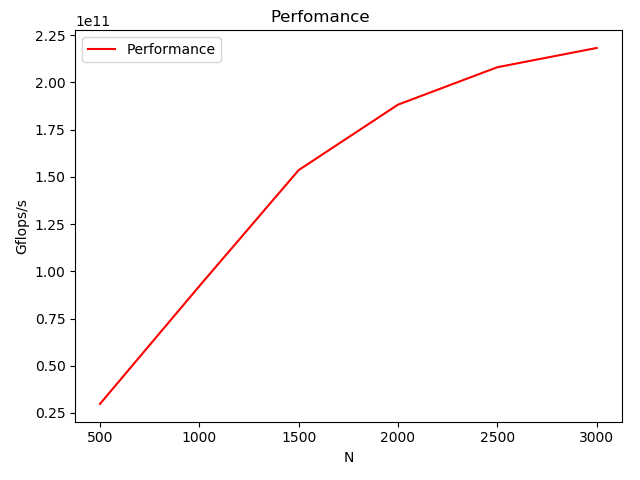
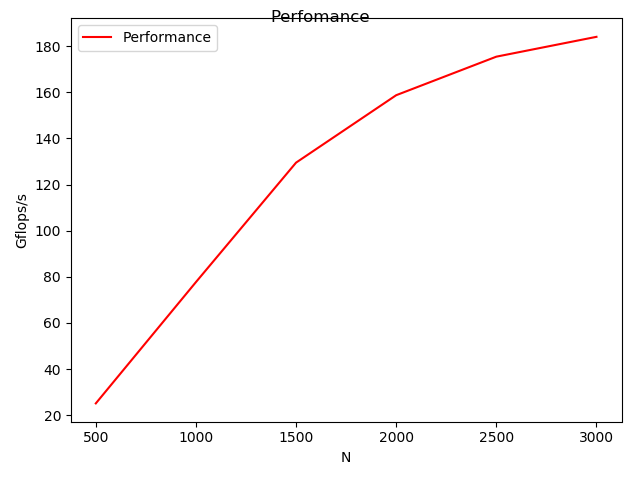
update comments

diff --git a/20190111/code/plot.py b/20190111/code/plot.py
@@ -1,25 +1,26 @@
+from matplotlib import pyplot as plt
 import matplotlib
 matplotlib.use("TkAgg")
-from matplotlib import pyplot as plt
 
 n, t, flot, t1, flot1 = [], [], [], [], []
+
 
 def get_cols(filename):
     """
     """
-    n, t, flot,t1, flot1 = [], [], [], [], []
+    n, t, flot, t1, flot1 = [], [], [], [], []
     with open(filename, "r") as f:
         for line in f:
             values = [float(s) for s in line.split()]
             n.append(values[0])
             t.append(values[1])
-            flot.append(values[2]/1.18564e+9)
+            flot.append(values[2])
             t1.append(values[3])
-            flot1.append(values[4]/1.18564e+9)
-    return n, t, flot, t1,flot1
+            flot1.append(values[4])
+    return n, t, flot, t1, flot1
 
 
-def plot_time(n, t,n1,t1,plt1, output):
+def plot_time(n, t, n1, t1, plt1, output):
     plt1.figure(1, clear=True)
     plt1.subplot()
     plt1.plot(n, t, '-r', label='computation + communication')
@@ -32,7 +33,7 @@ def plot_time(n, t,n1,t1,plt1, output):
     plt1.savefig(output)
 
 
-def plot_pperfomance(n,f, plt1,f1,n1, output):
+def plot_pperfomance(n, f, plt1, f1, n1, output):
     plt1.figure(2, clear=True)
     plt1.subplot()
     plt1.plot(n, f, '-r', label=' computation + communication')
@@ -45,6 +46,6 @@ def plot_pperfomance(n,f, plt1,f1,n1, output):
     plt1.savefig(output)
 
 
-n, t, f, t1,flot1 = get_cols('../data/time.dat')
-plot_time(n, t,n,t1, plt, '../img/time.png')
-plot_pperfomance(n, f,plt,flot1,n, '../img/perfomance.png')
+n, t, f, t1, flot1 = get_cols('../data/time.dat')
+plot_time(n, t, n, t1, plt, '../img/time.png')
+plot_pperfomance(n, f, plt, flot1, n, '../img/perfomance.png')

diff --git a/20190107/code/omp_refmatmul.c b/20190107/code/omp_refmatmul.c
@@ -4,6 +4,7 @@
 #include <omp.h>
 #endif
 
+// multiplication 
 void matrix_multiply(double *C, double *A, double *B, int N) {
   int i, j, k;
 #pragma omp for collapse(2) private(i,j,k)
@@ -16,6 +17,7 @@ void matrix_multiply(double *C, double *A, double *B, int N) {
 
 int main(int argc, char *argv[]) 
 {
+  // declare variables
   int i, j, numthreads;
   int N,num_size;
   double *A, *B, *C, t;
@@ -28,10 +30,12 @@ int main(int argc, char *argv[])
   N = atoi(argv[1]);
   num_size = N * N * sizeof(double);
 
+  // Allocate memory 
   A = (double *)malloc(num_size);
   B = (double *)malloc(num_size);
   C = (double *)malloc(num_size);
 
+  //initialize array
   for (i = 0; i < N; ++i)
     for (j = 0; j < N; ++j) {
       A[i + j*N] = 0.5;
@@ -39,7 +43,7 @@ int main(int argc, char *argv[])
       C[i +j * N] = 0.0;
     }
 
-  t =- omp_get_wtime();
+t =- omp_get_wtime();
 #pragma omp parallel
 {
   numthreads = omp_get_num_threads();
@@ -47,7 +51,8 @@ int main(int argc, char *argv[])
 }
   t += omp_get_wtime();
 
-  printf("%d %d %g %g \n", N, numthreads, t, 2.0 * N * N * N / t);
+//print time
+printf("%d %d %g %g \n", N, numthreads, t, 2.0 * N * N * N / t);
 
   return 0;
 }

diff --git a/20190109/code/plot.py b/20190109/code/plot.py
@@ -16,19 +16,19 @@ def get_cols(filename):
             values = [float(s) for s in line.split()]
             n.append(values[0])
             t.append(values[1])
-            flot.append(values[2])
+            flot.append(values[2]/1.18564e+9)
     return n, t, flot
 
 def plot_time(n,  t, plt1, output):
     plt1.figure(1, clear=True)
     plt1.subplot(111)
-   # plt1.plot(n, t, '-b', label='Time/us')
-    err = 0.1 + 0.2*np.sqrt(t)
-    plt1.errorbar(n, t, yerr=err,label='Time/us')
+    plt1.plot(n, t, '-b', label='Time/s')
+    #err = 0.1 + 0.2*np.sqrt(t)
+    #plt1.errorbar(n, t, yerr=err,label='Time/us')
     plt1.suptitle("Time")
     plt1.legend()
     plt1.xlabel('N')
-    plt1.ylabel('time(us)')
+    plt1.ylabel('time(s)')
     plt.tight_layout()
     plt1.savefig(output)
 

diff --git a/20190107/code/plot.py b/20190107/code/plot.py
@@ -14,7 +14,7 @@ def get_cols(filename):
             values = [float(s) for s in line.split()]
             n.append(values[0])
             t.append(values[2])
-            flot.append(values[3])
+            flot.append(values[3]/1.18564e+9)
     return n, t, flot
 
 def plot_time(n,  t, plt1 , output):
@@ -40,9 +40,7 @@ def plot_pperfomance(n,  t, plt1, output):
     plt.tight_layout()
     plt1.savefig(output)
   
-
-
-
+  
 n,t,f = get_cols('../data/time.dat')
 plot_time(n, t, plt, '../img/time.png')
-plot_pperfomance(n, f, plt, '../img/time2.png')
+plot_pperfomance(n, f, plt, '../img/perfomance.png')

diff --git a/20190107/Ex1_ Herbert Nguruwe.md b/20190107/Ex1_ Herbert Nguruwe.md
@@ -2,10 +2,11 @@
 
 Implementation of  square matrix  multiplication code using OpenMP directive. I executed the code using the maximum available num of threads in Ulyses which is 20 cores. The value of N was  increased by a factor of 500  starting from 500 to 3000.  The obtained results  that are  in the [time.dat](data/time.data)  in the data folder. The file shows N, number of threads, time(μs),Peak performance(flops/sec).
 
-![Perfomance analysis](img/time.png "Peak Perfomance")
+![Perfomance analysis](img/time.png "Time in secs")
 
 The results obtained it can be noted that the time increases linearly with increase in N. The lowest time is when N is 1000 with only  0.067μs and the highest time achieved is when N is 3000 which is 4.325μs .This  is because when N is a 1000 data can be loaded in the cache memory which reduces the cache misses. Increase in the value of N means that we will have a lot of cache misses  and load data from RAM for multiplying.
 
+![Perfomance analysis](img/perfomance.png "Perfomance")
 
 The same trend can be seen for the peak performance is highest when  N is less than 1000  reaching almost 30 Gflop/s.If we  double the value of N  to 2000, we notice that the peak performance reduces to 10 Gflop/s  which is a factor of 3.  This is also due to the cache misses in  experienced when N  becomes high.
 
